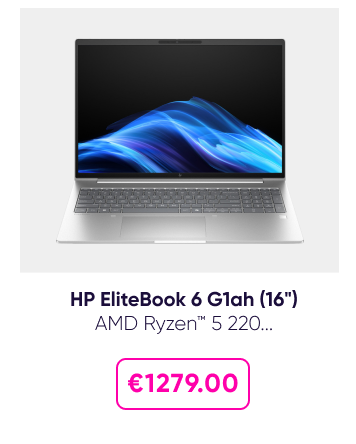
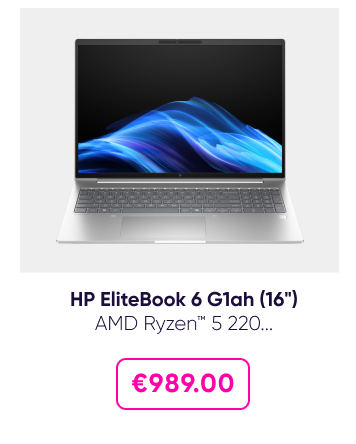
nl3: update iPhone/laptop prices (€1058/€989) + product URLs (CQ00959/CP28492)

Changed region(s): [[0.3399, 0.8198, 0.6798, 0.9077]]

diff --git a/monthly-newsletter/august-v2-funfacts/index-hubspot.html b/monthly-newsletter/august-v2-funfacts/index-hubspot.html
@@ -8,7 +8,7 @@
 <table role="presentation" width="100%" cellpadding="0" cellspacing="0" border="0" style="background:#efe9f2;"><tr><td align="center" style="padding:0;">
 <table role="presentation" width="600" cellpadding="0" cellspacing="0" border="0" style="width:100%;max-width:600px;">
 <tr><td style="padding:0;font-size:0;line-height:0;"><a href="https://www.datadirect.ie/products" target="_blank" style="display:block;line-height:0;"><img src="https://146425634.fs1.hubspotusercontent-eu1.net/hubfs/146425634/nl3-1.png" width="600" height="407" alt="Your month in DataDirect — welcome. Explore the store." style="display:block;width:100%;max-width:600px;height:auto;border:0;" /></a></td></tr>
-<tr><td style="padding:0;font-size:0;line-height:0;"><img src="https://146425634.fs1.hubspotusercontent-eu1.net/hubfs/146425634/nl3-2a.png" width="600" height="39" alt="Products of the week" style="display:block;width:100%;max-width:600px;height:auto;border:0;" /></td></tr><tr><td style="padding:0;font-size:0;line-height:0;"><table role="presentation" width="100%" cellpadding="0" cellspacing="0" border="0" style="width:100%;"><tr><td width="35.33%" valign="top" style="padding:0;font-size:0;line-height:0;"><a href="https://www.datadirect.ie/product-details?productId=CQ00075" target="_blank" style="display:block;line-height:0;"><img src="https://146425634.fs1.hubspotusercontent-eu1.net/hubfs/146425634/nl3-2b.png" width="212" height="222" alt="Apple iPhone Air 256GB, EUR 1129, view product" style="display:block;width:100%;height:auto;border:0;" /></a></td><td width="29.67%" valign="top" style="padding:0;font-size:0;line-height:0;"><a href="https://www.datadirect.ie/product-details?productId=CQ60626" target="_blank" style="display:block;line-height:0;"><img src="https://146425634.fs1.hubspotusercontent-eu1.net/hubfs/146425634/nl3-2c.png" width="178" height="222" alt="HP EliteBook 6 G1ah 16-inch, EUR 1279, view product" style="display:block;width:100%;height:auto;border:0;" /></a></td><td width="35.00%" valign="top" style="padding:0;font-size:0;line-height:0;"><a href="https://www.datadirect.ie/product-details?productId=CQ00952" target="_blank" style="display:block;line-height:0;"><img src="https://146425634.fs1.hubspotusercontent-eu1.net/hubfs/146425634/nl3-2d.png" width="210" height="222" alt="Samsung Galaxy Tab, EUR 156, view product" style="display:block;width:100%;height:auto;border:0;" /></a></td></tr></table></td></tr>
+<tr><td style="padding:0;font-size:0;line-height:0;"><img src="https://146425634.fs1.hubspotusercontent-eu1.net/hubfs/146425634/nl3-2a.png" width="600" height="39" alt="Products of the week" style="display:block;width:100%;max-width:600px;height:auto;border:0;" /></td></tr><tr><td style="padding:0;font-size:0;line-height:0;"><table role="presentation" width="100%" cellpadding="0" cellspacing="0" border="0" style="width:100%;"><tr><td width="35.33%" valign="top" style="padding:0;font-size:0;line-height:0;"><a href="https://www.datadirect.ie/product-details?productId=CQ00959" target="_blank" style="display:block;line-height:0;"><img src="https://146425634.fs1.hubspotusercontent-eu1.net/hubfs/146425634/nl3-2b.png" width="212" height="222" alt="Apple iPhone Air 256GB, EUR 1058, view product" style="display:block;width:100%;height:auto;border:0;" /></a></td><td width="29.67%" valign="top" style="padding:0;font-size:0;line-height:0;"><a href="https://www.datadirect.ie/product-details?productId=CP28492" target="_blank" style="display:block;line-height:0;"><img src="https://146425634.fs1.hubspotusercontent-eu1.net/hubfs/146425634/nl3-2c.png" width="178" height="222" alt="HP EliteBook 6 G1ah 16-inch, EUR 989, view product" style="display:block;width:100%;height:auto;border:0;" /></a></td><td width="35.00%" valign="top" style="padding:0;font-size:0;line-height:0;"><a href="https://www.datadirect.ie/product-details?productId=CQ00952" target="_blank" style="display:block;line-height:0;"><img src="https://146425634.fs1.hubspotusercontent-eu1.net/hubfs/146425634/nl3-2d.png" width="210" height="222" alt="Samsung Galaxy Tab, EUR 156, view product" style="display:block;width:100%;height:auto;border:0;" /></a></td></tr></table></td></tr>
 <tr><td style="padding:0;font-size:0;line-height:0;"><img src="https://146425634.fs1.hubspotusercontent-eu1.net/hubfs/146425634/nl3-3.png" width="600" height="606" alt="Our winners: World Cup Top 4 and F1 Prize Draw. Our partners. Where we've been." style="display:block;width:100%;max-width:600px;height:auto;border:0;" /></td></tr>
 <tr><td style="padding:0;font-size:0;line-height:0;"><img src="https://146425634.fs1.hubspotusercontent-eu1.net/hubfs/146425634/nl3-4.png" width="600" height="346" alt="An afternoon with Kensington." style="display:block;width:100%;max-width:600px;height:auto;border:0;" /></td></tr>
 <tr><td style="padding:0;font-size:0;line-height:0;"><img src="https://146425634.fs1.hubspotusercontent-eu1.net/hubfs/146425634/nl3-5.png" width="600" height="374" alt="What we learned this month." style="display:block;width:100%;max-width:600px;height:auto;border:0;" /></td></tr>

diff --git a/monthly-newsletter/august-v2-funfacts/index-FINAL.html b/monthly-newsletter/august-v2-funfacts/index-FINAL.html
@@ -8,7 +8,7 @@
 <table role="presentation" width="100%" cellpadding="0" cellspacing="0" border="0" style="background:#efe9f2;"><tr><td align="center" style="padding:0;">
 <table role="presentation" width="600" cellpadding="0" cellspacing="0" border="0" style="width:100%;max-width:600px;">
 <tr><td style="padding:0;font-size:0;line-height:0;"><a href="https://www.datadirect.ie/products" target="_blank" style="display:block;line-height:0;"><img src="https://files.catbox.moe/fl9icy.png" width="600" height="407" alt="Your month in DataDirect — welcome. Explore the store." style="display:block;width:100%;max-width:600px;height:auto;border:0;" /></a></td></tr>
-<tr><td style="padding:0;font-size:0;line-height:0;"><img src="https://files.catbox.moe/6wtaaj.png" width="600" height="39" alt="Products of the week" style="display:block;width:100%;max-width:600px;height:auto;border:0;" /></td></tr><tr><td style="padding:0;font-size:0;line-height:0;"><table role="presentation" width="100%" cellpadding="0" cellspacing="0" border="0" style="width:100%;"><tr><td width="35.33%" valign="top" style="padding:0;font-size:0;line-height:0;"><a href="https://www.datadirect.ie/product-details?productId=CQ00075" target="_blank" style="display:block;line-height:0;"><img src="https://files.catbox.moe/wq3h13.png" width="212" height="222" alt="Apple iPhone Air 256GB, EUR 1129, view product" style="display:block;width:100%;height:auto;border:0;" /></a></td><td width="29.67%" valign="top" style="padding:0;font-size:0;line-height:0;"><a href="https://www.datadirect.ie/product-details?productId=CQ60626" target="_blank" style="display:block;line-height:0;"><img src="https://files.catbox.moe/69t9tg.png" width="178" height="222" alt="HP EliteBook 6 G1ah 16-inch, EUR 1279, view product" style="display:block;width:100%;height:auto;border:0;" /></a></td><td width="35.00%" valign="top" style="padding:0;font-size:0;line-height:0;"><a href="https://www.datadirect.ie/product-details?productId=CQ00952" target="_blank" style="display:block;line-height:0;"><img src="https://files.catbox.moe/78zpst.png" width="210" height="222" alt="Samsung Galaxy Tab, EUR 156, view product" style="display:block;width:100%;height:auto;border:0;" /></a></td></tr></table></td></tr>
+<tr><td style="padding:0;font-size:0;line-height:0;"><img src="https://files.catbox.moe/6wtaaj.png" width="600" height="39" alt="Products of the week" style="display:block;width:100%;max-width:600px;height:auto;border:0;" /></td></tr><tr><td style="padding:0;font-size:0;line-height:0;"><table role="presentation" width="100%" cellpadding="0" cellspacing="0" border="0" style="width:100%;"><tr><td width="35.33%" valign="top" style="padding:0;font-size:0;line-height:0;"><a href="https://www.datadirect.ie/product-details?productId=CQ00959" target="_blank" style="display:block;line-height:0;"><img src="https://files.catbox.moe/olmbpu.png" width="212" height="222" alt="Apple iPhone Air 256GB, EUR 1058, view product" style="display:block;width:100%;height:auto;border:0;" /></a></td><td width="29.67%" valign="top" style="padding:0;font-size:0;line-height:0;"><a href="https://www.datadirect.ie/product-details?productId=CP28492" target="_blank" style="display:block;line-height:0;"><img src="https://files.catbox.moe/0s8b3f.png" width="178" height="222" alt="HP EliteBook 6 G1ah 16-inch, EUR 989, view product" style="display:block;width:100%;height:auto;border:0;" /></a></td><td width="35.00%" valign="top" style="padding:0;font-size:0;line-height:0;"><a href="https://www.datadirect.ie/product-details?productId=CQ00952" target="_blank" style="display:block;line-height:0;"><img src="https://files.catbox.moe/78zpst.png" width="210" height="222" alt="Samsung Galaxy Tab, EUR 156, view product" style="display:block;width:100%;height:auto;border:0;" /></a></td></tr></table></td></tr>
 <tr><td style="padding:0;font-size:0;line-height:0;"><img src="https://files.catbox.moe/ubz2wv.png" width="600" height="606" alt="Our winners: World Cup Top 4 and F1 Prize Draw. Our partners. Where we've been." style="display:block;width:100%;max-width:600px;height:auto;border:0;" /></td></tr>
 <tr><td style="padding:0;font-size:0;line-height:0;"><img src="https://files.catbox.moe/u4nfra.png" width="600" height="346" alt="An afternoon with Kensington." style="display:block;width:100%;max-width:600px;height:auto;border:0;" /></td></tr>
 <tr><td style="padding:0;font-size:0;line-height:0;"><img src="https://files.catbox.moe/tk4zl6.png" width="600" height="374" alt="What we learned this month." style="display:block;width:100%;max-width:600px;height:auto;border:0;" /></td></tr>

diff --git a/monthly-newsletter/august-v2-funfacts/index-relative.html b/monthly-newsletter/august-v2-funfacts/index-relative.html
@@ -8,7 +8,7 @@
 <table role="presentation" width="100%" cellpadding="0" cellspacing="0" border="0" style="background:#efe9f2;"><tr><td align="center" style="padding:0;">
 <table role="presentation" width="600" cellpadding="0" cellspacing="0" border="0" style="width:100%;max-width:600px;">
 <tr><td style="padding:0;font-size:0;line-height:0;"><a href="https://www.datadirect.ie/products" target="_blank" style="display:block;line-height:0;"><img src="slices/nl3-1.png" width="600" height="407" alt="Your month in DataDirect — welcome. Explore the store." style="display:block;width:100%;max-width:600px;height:auto;border:0;" /></a></td></tr>
-<tr><td style="padding:0;font-size:0;line-height:0;"><img src="slices/nl3-2a.png" width="600" height="39" alt="Products of the week" style="display:block;width:100%;max-width:600px;height:auto;border:0;" /></td></tr><tr><td style="padding:0;font-size:0;line-height:0;"><table role="presentation" width="100%" cellpadding="0" cellspacing="0" border="0" style="width:100%;"><tr><td width="35.33%" valign="top" style="padding:0;font-size:0;line-height:0;"><a href="https://www.datadirect.ie/product-details?productId=CQ00075" target="_blank" style="display:block;line-height:0;"><img src="slices/nl3-2b.png" width="212" height="222" alt="Apple iPhone Air 256GB, EUR 1129, view product" style="display:block;width:100%;height:auto;border:0;" /></a></td><td width="29.67%" valign="top" style="padding:0;font-size:0;line-height:0;"><a href="https://www.datadirect.ie/product-details?productId=CQ60626" target="_blank" style="display:block;line-height:0;"><img src="slices/nl3-2c.png" width="178" height="222" alt="HP EliteBook 6 G1ah 16-inch, EUR 1279, view product" style="display:block;width:100%;height:auto;border:0;" /></a></td><td width="35.00%" valign="top" style="padding:0;font-size:0;line-height:0;"><a href="https://www.datadirect.ie/product-details?productId=CQ00952" target="_blank" style="display:block;line-height:0;"><img src="slices/nl3-2d.png" width="210" height="222" alt="Samsung Galaxy Tab, EUR 156, view product" style="display:block;width:100%;height:auto;border:0;" /></a></td></tr></table></td></tr>
+<tr><td style="padding:0;font-size:0;line-height:0;"><img src="slices/nl3-2a.png" width="600" height="39" alt="Products of the week" style="display:block;width:100%;max-width:600px;height:auto;border:0;" /></td></tr><tr><td style="padding:0;font-size:0;line-height:0;"><table role="presentation" width="100%" cellpadding="0" cellspacing="0" border="0" style="width:100%;"><tr><td width="35.33%" valign="top" style="padding:0;font-size:0;line-height:0;"><a href="https://www.datadirect.ie/product-details?productId=CQ00959" target="_blank" style="display:block;line-height:0;"><img src="slices/nl3-2b.png" width="212" height="222" alt="Apple iPhone Air 256GB, EUR 1058, view product" style="display:block;width:100%;height:auto;border:0;" /></a></td><td width="29.67%" valign="top" style="padding:0;font-size:0;line-height:0;"><a href="https://www.datadirect.ie/product-details?productId=CP28492" target="_blank" style="display:block;line-height:0;"><img src="slices/nl3-2c.png" width="178" height="222" alt="HP EliteBook 6 G1ah 16-inch, EUR 989, view product" style="display:block;width:100%;height:auto;border:0;" /></a></td><td width="35.00%" valign="top" style="padding:0;font-size:0;line-height:0;"><a href="https://www.datadirect.ie/product-details?productId=CQ00952" target="_blank" style="display:block;line-height:0;"><img src="slices/nl3-2d.png" width="210" height="222" alt="Samsung Galaxy Tab, EUR 156, view product" style="display:block;width:100%;height:auto;border:0;" /></a></td></tr></table></td></tr>
 <tr><td style="padding:0;font-size:0;line-height:0;"><img src="slices/nl3-3.png" width="600" height="606" alt="Our winners: World Cup Top 4 and F1 Prize Draw. Our partners. Where we've been." style="display:block;width:100%;max-width:600px;height:auto;border:0;" /></td></tr>
 <tr><td style="padding:0;font-size:0;line-height:0;"><img src="slices/nl3-4.png" width="600" height="346" alt="An afternoon with Kensington." style="display:block;width:100%;max-width:600px;height:auto;border:0;" /></td></tr>
 <tr><td style="padding:0;font-size:0;line-height:0;"><img src="slices/nl3-5.png" width="600" height="374" alt="What we learned this month." style="display:block;width:100%;max-width:600px;height:auto;border:0;" /></td></tr>
